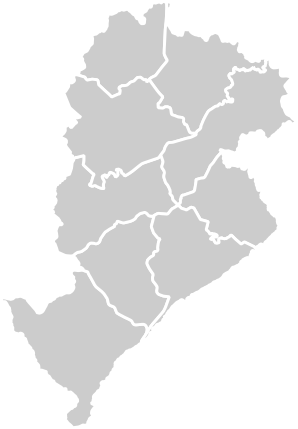
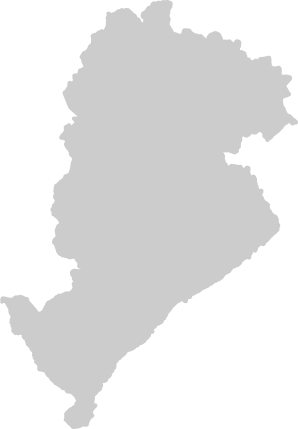
Update classe Map Coloring, novos assets

diff --git a/LogiKids/LogiKids/map_coloring.cpp b/LogiKids/LogiKids/map_coloring.cpp
@@ -5,43 +5,163 @@ Map_Coloring::Map_Coloring()
 	background = new GameTexture("assets/map_coloring/colorindo_bh.png", 0, 0, false, false);
 	help = new GameTexture("assets/buttons/help", 740, 540, true, false);
 	reset = new GameTexture("assets/buttons/reset", 15, 550, true, false);
-	bh = new GameTexture("assets/map_coloring/bh.png", 420, 124, false, false);
+    bh_outline = new GameTexture("assets/map_coloring/bh_outline.png", 419, 122, false, false);
 
-    addRegion(VENDA_NOVA, 501, 128, "assets/map_coloring/venda_nova.png");
-    addRegion(NORTE,      572, 154, "assets/map_coloring/norte.png");
-    addRegion(PAMPULHA,   484, 201, "assets/map_coloring/pampulha.png");
-    addRegion(NORDESTE,   584, 190, "assets/map_coloring/nordeste.png");
-    addRegion(NOROESTE,   475, 283, "assets/map_coloring/noroeste.png");
-    addRegion(LESTE,      602, 281, "assets/map_coloring/leste.png");
-    addRegion(OESTE,      497, 339, "assets/map_coloring/oeste.png");
-    addRegion(CENTRO_SUL, 568, 333, "assets/map_coloring/centro_sul.png");
-    addRegion(BARREIRO,   429, 396, "assets/map_coloring/barreiro.png");
+    balde[AZUL]           = new GameTexture("assets/map_coloring/balde_azul", 30, 425, true, false);
+    //balde_virado[AZUL]    = new GameTexture("assets/map_coloring/balde_azul_2", 30, 425, false, false);
 
-    regioes[VENDA_NOVA].mapa->setColor(azul);
-    regioes[NORTE].mapa->setColor(roxo);
-    regioes[PAMPULHA].mapa->setColor(amarelo);
-    regioes[NORDESTE].mapa->setColor(rosa);
-    regioes[NORTE].mapa->resetColor();
-}
+    balde[ROXO]           = new GameTexture("assets/map_coloring/balde_roxo", 122, 425, true, false);
+    //balde_virado[ROXO]    = new GameTexture("assets/map_coloring/balde_roxo_2", 122, 425, false, false);
 
-void Map_Coloring::addRegion(Nome name, int xpos, int ypos, const char* texturePath)
-{
-    regioes[name].cor = BRANCO;
-    regioes[name].nome = name;
-    regioes[name].mapa = new GameTexture(texturePath, xpos, ypos, false, false); 
+    balde[AMARELO]        = new GameTexture("assets/map_coloring/balde_amarelo", 214, 425, true, false);
+    //balde_virado[AMARELO] = new GameTexture("assets/map_coloring/balde_amarelo_2", 214, 425, false, false);
+
+    balde[ROSA]           = new GameTexture("assets/map_coloring/balde_rosa", 306, 425, true, false);
+    //balde_virado[ROSA]    = new GameTexture("assets/map_coloring/balde_rosa_2", 306, 425, false, false);
+
+    addRegion(VENDA_NOVA, 496, 124, "assets/map_coloring/venda_nova.png");
+    addRegion(NORTE,      567, 124, "assets/map_coloring/norte.png");
+    addRegion(PAMPULHA,   479, 197, "assets/map_coloring/pampulha.png");
+    addRegion(NORDESTE,   579, 179, "assets/map_coloring/nordeste.png");
+    addRegion(NOROESTE,   470, 277, "assets/map_coloring/noroeste.png");
+    addRegion(LESTE,      597, 274, "assets/map_coloring/leste.png");
+    addRegion(OESTE,      477, 335, "assets/map_coloring/oeste.png");
+    addRegion(CENTRO_SUL, 559, 328, "assets/map_coloring/centro_sul.png");
+    addRegion(BARREIRO,   420, 392, "assets/map_coloring/barreiro.png");
 }
 
 Map_Coloring::~Map_Coloring()
 {
 }
 
+void Map_Coloring::addRegion(Nome name, int xpos, int ypos, const char* texturePath)
+{
+    regioes[name].nome_cor = BRANCO;
+    regioes[name].cor = { 204, 204, 204};//255, 255, 255 };
+    regioes[name].nome = name;
+    regioes[name].mapa = new GameTexture(texturePath, xpos, ypos, false, false);
+}
+
+void Map_Coloring::resetMap()
+{
+    for (int i = 0; i < N_REGIOES_BH; i++)
+    {
+        regioes[i].mapa->setColor(branco);
+        regioes[i].cor = { 204, 204, 204};//255, 255, 255 };
+    }
+        
+    
+}
+
+void Map_Coloring::handleEvent(SDL_Event* e)
+{
+    if (!gameWin) {
+        help->handleEvent(e);
+
+        for (int i = 0; i < N_REGIOES_BH; i++)
+            handleRegionEvent(e, &regioes[i]);
+        
+        for (int i = 0; i < N_CORES; i++)
+            handleBucketEvent(e, balde[i], cores[i]);
+
+        if (reset->handleEvent(e))
+            resetMap();
+    }
+}
+
+void Map_Coloring::handleBucketEvent(SDL_Event* e, GameTexture* bucket, Cor color)
+{
+    bucket->handleEvent(e);
+    if (bucket->isPressed()) {
+        printf("Click no balde\n");
+        currentColor = color;
+        printf("Current color: %d\n", currentColor);
+    }
+}
+
+void Map_Coloring::handleRegionEvent(SDL_Event* e, Regiao* regiao)
+{
+    regiao->mapa->handleEvent(e);
+
+    // If region is pressed, sets the color
+    if (regiao->mapa->isPressed()) {
+        printf("Click na regiao\n");
+        setRegionColor(regiao);
+        printf("Current color: r:%d g:%d b:%d\n", regiao->cor.r, regiao->cor.g, regiao->cor.b);
+    }
+    // Highlights current color on the region
+    // the mouse hovers
+    if (regiao->mapa->isWithinBoundaries())
+    {
+        SDL_Color currentColorRGB = getColorFromName(currentColor);
+        regiao->mapa->setColor(currentColorRGB);
+    }        
+    else
+        setToCurrentColor(regiao); 
+}
+
+void Map_Coloring::setToCurrentColor(Regiao* regiao)
+{
+    regiao->mapa->setColor(regiao->cor);
+}
+
+SDL_Color Map_Coloring::getColorFromName(Cor color)
+{
+    SDL_Color color_rgb = { 0,0,0 };
+
+    switch (color)
+    {
+    case AZUL:
+        color_rgb.r = azul.r;
+        color_rgb.g = azul.g;
+        color_rgb.b = azul.b;
+        break;
+    case ROXO:
+        color_rgb.r = roxo.r;
+        color_rgb.g = roxo.g;
+        color_rgb.b = roxo.b;
+        break;
+    case AMARELO:
+        color_rgb.r = amarelo.r;
+        color_rgb.g = amarelo.g;
+        color_rgb.b = amarelo.b;
+        break;
+    case ROSA:
+        color_rgb.r = rosa.r;
+        color_rgb.g = rosa.g;
+        color_rgb.b = rosa.b;
+        break;
+    case BRANCO:
+        color_rgb.r = branco.r;
+        color_rgb.g = branco.g;
+        color_rgb.b = branco.b;
+        break;
+    default:
+        break;
+    }
+    return color_rgb;
+}
+
+void Map_Coloring::setRegionColor(Regiao* regiao)
+{
+    SDL_Color color = getColorFromName(currentColor);
+    regiao->cor.r = color.r;
+    regiao->cor.g = color.g;
+    regiao->cor.b = color.b;
+    regiao->mapa->setColor(regiao->cor);
+}
+
 void Map_Coloring::render()
 {
     background->render();
-    bh->render();
     help->render();
     reset->render();
 
     for (int i = 0; i < N_REGIOES_BH; i++)
         regioes[i].mapa->render();
+
+    bh_outline->render();
+
+    for (int i = 0; i < N_CORES; i++)
+        balde[i]->render();
 }

diff --git a/LogiKids/LogiKids/map_coloring.h b/LogiKids/LogiKids/map_coloring.h
@@ -7,6 +7,7 @@
 #include <stdlib.h> 
 
 #define N_REGIOES_BH 9
+#define N_CORES 4
 
 enum Nome {
     VENDA_NOVA,
@@ -31,7 +32,8 @@ enum Cor {
 typedef struct Regiao {
     GameTexture* mapa;
     Nome nome;
-    Cor cor = BRANCO;
+    Cor nome_cor;
+    SDL_Color cor;
 };
 
 class Map_Coloring
@@ -39,21 +41,33 @@ class Map_Coloring
 public:
 	Map_Coloring();
     void addRegion(Nome name, int xpos, int ypos, const char* texturePath);
+    void resetMap();
+    void handleEvent(SDL_Event* e);
+    void handleRegionEvent(SDL_Event* e, Regiao* regiao);
+    void handleBucketEvent(SDL_Event* e, GameTexture* bucket, Cor color);
+    void setToCurrentColor(Regiao* regiao);
+    void setRegionColor(Regiao* regiao);
+    SDL_Color getColorFromName(Cor color);
 	~Map_Coloring();
     void render();
 
 private:
 	GameTexture* background;
-    GameTexture* bh;
+    GameTexture* bh_outline;
 	GameTexture* help;
 	GameTexture* reset;
 	GameTexture* map;
+    GameTexture* balde[N_CORES];
+    //GameTexture* balde_virado[N_CORES];
     Regiao regioes[N_REGIOES_BH];
+    Cor currentColor = BRANCO;
+    Cor cores[5] = { AZUL, ROXO, AMARELO, ROSA, BRANCO };
     SDL_Color azul = { 0, 158, 161 };
     SDL_Color roxo = { 96, 62, 149 };
     SDL_Color amarelo = { 250, 195, 43 };
     SDL_Color rosa = { 215, 38, 93 };
-    SDL_Color branco = { 255, 255, 255 };
+    SDL_Color branco = { 204, 204, 204 };
+    bool gameWin = false;
 
 };
 

diff --git a/LogiKids/LogiKids/game_texture.cpp b/LogiKids/LogiKids/game_texture.cpp
@@ -172,8 +172,14 @@ void GameTexture::setGrabPosition(SDL_Point position)
 	grabPosition.y = position.y;
 }
 
+bool GameTexture::isPressed()
+{
+	return spritePressed;
+}
+
 bool GameTexture::handleEvent(SDL_Event* event) {
-	bool spritePressed = false;
+	//bool spritePressed = false;
+	spritePressed = false;
 
 	if (event->type == SDL_MOUSEMOTION || event->type == SDL_MOUSEBUTTONDOWN || event->type == SDL_MOUSEBUTTONUP)
 	{
@@ -182,7 +188,7 @@ bool GameTexture::handleEvent(SDL_Event* event) {
 		SDL_GetMouseState(&x, &y);
 		bool inside = true;
 		currentSprite = MOUSE_OUT;
-		withinBoudaries = true;
+		//withinBoudaries = true;
 
 		if (x < destRect.x)
 			inside = false;
@@ -197,7 +203,6 @@ bool GameTexture::handleEvent(SDL_Event* event) {
 			currentSprite = MOUSE_OUT;
 			withinBoudaries = false;
 		}
-		    
 		//Mouse is inside area
 		else
 		{
@@ -207,6 +212,7 @@ bool GameTexture::handleEvent(SDL_Event* event) {
 				color = getPixelColor(x - destRect.x, y - destRect.y);				
 				if (color.a != 0) {
 					currentSprite = MOUSE_OVER_MOTION;
+					withinBoudaries = true;
 				}
 				else {
 					currentSprite = MOUSE_OUT;

diff --git a/LogiKids/LogiKids/game_texture.h b/LogiKids/LogiKids/game_texture.h
@@ -40,6 +40,7 @@ public:
 	bool dropped();
 	bool grabbed();
 	void setGrabPosition(SDL_Point position);
+	bool isPressed();
 	bool handleEvent(SDL_Event* event);
 	SDL_Color getPixelColor(const int X, const int Y);
 	bool isWithinBoundaries();
@@ -53,7 +54,7 @@ private:
 	sprite_state currentSprite = MOUSE_OUT;
 	int			 height, width;
 	bool		 grab = false, lastGrabState = false, lastDropState = true;
-	bool		 withinBoudaries = false;
+	bool		 withinBoudaries = false, spritePressed = false;
 	bool		 isMovable = false, hasClips = false;
 
 

diff --git a/LogiKids/LogiKids/game.cpp b/LogiKids/LogiKids/game.cpp
@@ -130,6 +130,8 @@ void Game::handleMapColoringEvents(SDL_Event* event)
     if (botao_x->handleEvent(event)) {
         state = GAME_MENU;
     }
+
+    colorindo_bh->handleEvent(event);
 }
 
 void Game::handleEvents()
@@ -208,7 +210,7 @@ void Game::render()
 
     case GAME_MAP_COLORING:
         colorindo_bh->render();
-        botao_x->render();
+        botao_x     ->render();
 
     default:
         break;
